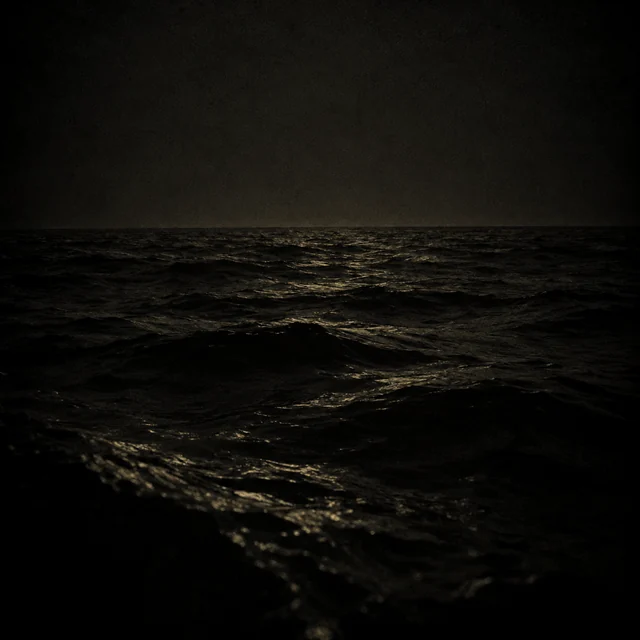
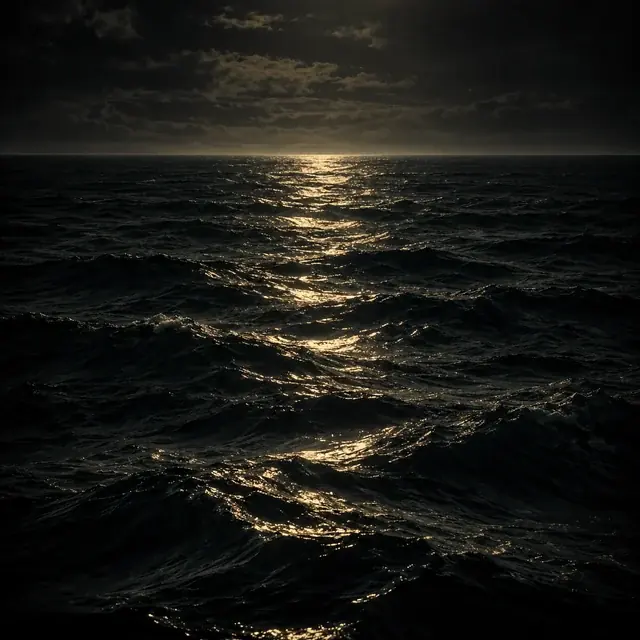
fix: a lanterna inteira, o mar que se entende, e a etiqueta fora do nome
A lanterna anterior tinha a cabeça dobrada num ângulo impossível em relação
ao corpo, como se fossem duas peças coladas. Esta é um tubo só, deitada no
chão, acesa, com o feixe cortando a poeira — e a silhueta se separa do
fundo, que era o outro problema.

O oceano da talassofobia estava escuro ao ponto de não se entender o que
era no tamanho do cartão. Este tem o horizonte definido e o caminho do luar
na água, que é o que diz de imediato que aquilo é mar; as ondas da frente
têm desenho em vez de uma mancha preta. Continua noturno e quase
monocromático, com um empurrão para o âmbar das outras onze fobias.

E, na carta da troca, a quantidade subiu para o alto à direita: embaixo ela
encavalava no nome em cartas largas.

diff --git a/src/styles/people.css b/src/styles/people.css
@@ -236,7 +236,8 @@
 .card-art em { color: #2a2c1c; font: 1.5rem Georgia, serif; font-style: normal; }
 .trade-card b { min-height: 2.4em; display: grid; align-content: center; font: 700 .54rem/1.2 "Courier New", monospace; letter-spacing: .06em; text-transform: uppercase; text-align: center; }
 .card-count {
-  position: absolute; right: 3px; bottom: 3px; display: grid; place-items: center;
+  /* No alto, à direita: embaixo ela encavalava no nome em cartas largas. */
+  position: absolute; right: 3px; top: 3px; display: grid; place-items: center;
   width: 20px; height: 20px; border: 1px solid #8a8768; border-radius: 50%;
   background: #15160e; color: #e8e2c6; font: .56rem "Courier New", monospace; font-style: normal;
 }
@@ -246,7 +247,7 @@
 .trade-table { display: grid; grid-template-columns: 1fr auto 1fr; align-items: center; gap: .5rem; padding: .5rem; border: 1px dashed #4a4d38; background: #07080500; }
 .deal-side { display: flex; flex-wrap: wrap; justify-content: center; gap: .4rem; min-height: 72px; align-content: center; }
 .deal-card { width: 56px; padding: .3rem; }
-.deal-card .card-count { right: 2px; bottom: 2px; width: 17px; height: 17px; font-size: .5rem; }
+.deal-card .card-count { right: 2px; top: auto; bottom: 2px; width: 17px; height: 17px; font-size: .5rem; }
 .deal-slot { width: 56px; height: 62px; border: 1px dashed #3c3f2c; }
 .deal-arrow { width: 44px; height: 30px; fill: var(--acid); filter: drop-shadow(0 0 8px #d7df7744); }
 .trade-interest { display: grid; gap: .25rem; }
